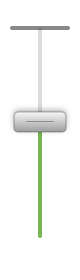
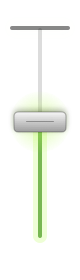
Add following glow and pull cursors

Changed region(s): [[0.275, 0.4571, 0.725, 0.8857], [0.3, 0.3429, 0.7, 0.4]]

diff --git a/Sources/Tendedero/HoverHintPanel.swift b/Sources/Tendedero/HoverHintPanel.swift
@@ -8,6 +8,51 @@ import SwiftUI
 /// It never takes a click and never becomes key: it is a sign, not a control.
 @MainActor
 final class HoverHintPanel: NSPanel {
+    /// A crisp two-times-resolution white arrow with a black edge: the
+    /// cursor shown while the pull cord is visible.
+    static let pullCursor: NSCursor = {
+        let points = NSSize(width: 20, height: 20)
+        guard let rep = NSBitmapImageRep(bitmapDataPlanes: nil, pixelsWide: 40, pixelsHigh: 40,
+                                         bitsPerSample: 8, samplesPerPixel: 4, hasAlpha: true,
+                                         isPlanar: false, colorSpaceName: .deviceRGB,
+                                         bytesPerRow: 0, bitsPerPixel: 0),
+              let context = NSGraphicsContext(bitmapImageRep: rep) else {
+            return .arrow
+        }
+        rep.size = points
+        NSGraphicsContext.saveGraphicsState()
+        NSGraphicsContext.current = context
+        let transform = NSAffineTransform()
+        transform.scale(by: 2)
+        transform.concat()
+
+        let arrow = NSBezierPath()
+        arrow.move(to: NSPoint(x: 10, y: 18))
+        arrow.line(to: NSPoint(x: 17, y: 11))
+        arrow.line(to: NSPoint(x: 13, y: 11))
+        arrow.line(to: NSPoint(x: 13, y: 4))
+        arrow.line(to: NSPoint(x: 7, y: 4))
+        arrow.line(to: NSPoint(x: 7, y: 11))
+        arrow.line(to: NSPoint(x: 3, y: 11))
+        arrow.close()
+
+        let shadow = NSShadow()
+        shadow.shadowColor = NSColor.black.withAlphaComponent(0.4)
+        shadow.shadowBlurRadius = 2
+        shadow.shadowOffset = NSSize(width: 0, height: -1)
+        shadow.set()
+        NSColor.white.setFill()
+        arrow.fill()
+        NSColor.black.withAlphaComponent(0.85).setStroke()
+        arrow.lineWidth = 1.2
+        arrow.stroke()
+
+        NSGraphicsContext.restoreGraphicsState()
+        let image = NSImage(size: points)
+        image.addRepresentation(rep)
+        return NSCursor(image: image, hotSpot: NSPoint(x: 10, y: 10))
+    }()
+
     private let hosting: NSHostingView<HoverHintView>
     private var lastProgress = -1.0
     private var isShown = false
@@ -90,26 +135,53 @@ private struct PullCord: View {
 
     private var warm: Bool { progress > 0.85 }
 
+    /// Follows the pointer's progress: teal at the bottom, orange at the top.
+    private var glowColor: Color {
+        Color(hue: 0.42 - 0.32 * progress, saturation: 0.8, brightness: 1)
+    }
+
+    private var glowAlpha: Double { 0.12 + 0.22 * progress }
+
     var body: some View {
         GeometryReader { geometry in
             let mid = geometry.size.width / 2
             let top: CGFloat = 14
             let bottom: CGFloat = 118
             let pegY = top + (bottom - top) * (1 - CGFloat(progress))
+            let fillPath = Path { path in
+                path.move(to: CGPoint(x: mid, y: bottom))
+                path.addLine(to: CGPoint(x: mid, y: pegY))
+            }
 
             ZStack {
+                // A soft light tail along the part of the rope the peg has
+                // already climbed.
+                fillPath
+                    .stroke(glowColor.opacity(glowAlpha),
+                            style: StrokeStyle(lineWidth: 7, lineCap: .round))
+                    .blur(radius: 4)
+
                 Capsule()
                     .fill(Color.primary.opacity(0.16))
                     .frame(width: 2, height: bottom - top)
                     .position(x: mid, y: (top + bottom) / 2)
                     .shadow(color: .black.opacity(0.12), radius: 1, y: 0.5)
 
-                Path { path in
-                    path.move(to: CGPoint(x: mid, y: bottom))
-                    path.addLine(to: CGPoint(x: mid, y: pegY))
-                }
-                .stroke(warm ? Color.orange : Color.accentColor,
-                        style: StrokeStyle(lineWidth: 2, lineCap: .round))
+                fillPath
+                    .stroke(warm ? Color.orange : Color.accentColor,
+                            style: StrokeStyle(lineWidth: 2, lineCap: .round))
+
+                // A halo that rides with the peg and changes color as the
+                // pointer climbs.
+                Circle()
+                    .fill(
+                        RadialGradient(colors: [glowColor.opacity(0.45), glowColor.opacity(0)],
+                                       center: .center, startRadius: 0, endRadius: 16)
+                    )
+                    .frame(width: CGFloat(26 + 8 * progress),
+                           height: CGFloat(26 + 8 * progress))
+                    .position(x: mid, y: pegY)
+                    .blur(radius: 2)
 
                 // The short line at the top is both the clothesline end and
                 // the wake threshold.
@@ -117,7 +189,8 @@ private struct PullCord: View {
                     .fill(warm ? Color.orange : Color.primary.opacity(0.55))
                     .frame(width: 30, height: 2)
                     .position(x: mid, y: top)
-                    .shadow(color: warm ? Color.orange.opacity(0.7) : .clear, radius: 3)
+                    .shadow(color: warm ? Color.orange.opacity(0.7) : glowColor.opacity(0.2),
+                            radius: 3)
 
                 ClothespinMarker(warm: warm)
                     .position(x: mid, y: pegY)

diff --git a/Sources/Tendedero/AppDelegate.swift b/Sources/Tendedero/AppDelegate.swift
@@ -42,6 +42,8 @@ final class AppDelegate: NSObject, NSApplicationDelegate, NSMenuDelegate {
     /// Whether the pointer has moved upward since the hint appeared. This is
     /// the gesture that wakes the line.
     private var topCenterMovedUp = false
+    /// Whether the custom pull-up cursor is on the cursor stack.
+    private var pullCursorPushed = false
     /// Last pointer height, so entering the zone from below counts as moving
     /// up even when it happens between two timer ticks.
     private var previousMouseY: CGFloat?
@@ -608,6 +610,10 @@ final class AppDelegate: NSObject, NSApplicationDelegate, NSMenuDelegate {
     }
 
     private func hideHint() {
+        if pullCursorPushed {
+            NSCursor.pop()
+            pullCursorPushed = false
+        }
         hintPanel?.hide()
     }
 

diff --git a/Sources/Tendedero/GrabArea.swift b/Sources/Tendedero/GrabArea.swift
@@ -112,6 +112,11 @@ final class GrabView: NSView, NSDraggingSource {
 
     override func acceptsFirstMouse(for event: NSEvent?) -> Bool { true }
 
+    /// The photos are clickable, so the software area gets a hand cursor.
+    override func resetCursorRects() {
+        addCursorRect(bounds, cursor: .pointingHand)
+    }
+
     /// The discard cross drawn in the top left corner of the card. It is
     /// handled here because this view sits on top of the SwiftUI card.
     static let crossHitSize: CGFloat = 26

diff --git a/README-DEV.md b/README-DEV.md
@@ -6,7 +6,7 @@
 
 ### 1. 顶部正中间触发，而不是整条菜单栏
 
-![顶部中间的极简拉绳提示](docs/images/dev-hint.png)
+![带跟随光晕的极简拉绳提示](docs/images/dev-hint.png)
 
 - 热区是屏幕顶部正中间的一块区域：宽约 320 pt，从屏幕最上沿向下约 144 pt。
 - 指针进入热区后只会出现一根**极简垂直拉绳**，不会立即放下晾衣架，也**不显示任何文字**。
@@ -14,6 +14,8 @@
 - 夹子随鼠标向上爬，绳子的彩色部分显示已经爬过的距离；顶部短横线就是唤醒阈值。
 - 阈值行程为 144 pt；接近阈值时绳子和夹子转为橙色并微微发亮。
 - 拉绳只有约 **40 × 140**，比上一版 64 × 220 小很多；全部矢量绘制，Retina 下清晰，不做动态放大，所以结束后不需要恢复任何缩放状态。
+- 夹子周围有一圈**跟随光晕**：色相随进度从青绿过渡到橙色，亮度和半径也逐渐增强；绳子已爬过的部分带一条柔和光尾。光晕跟着夹子走，不是固定装饰。
+- 进入顶部拉绳区域时，光标换成自定义的**上拉箭头**（2× Retina 位图）；鼠标移到照片上则变成**手形光标**。离开区域、唤醒、收绳或鼠标进入菜单栏其他位置时立刻恢复系统光标。
 - 空绳时不显示拉绳提示，避免没有内容可拉。
 - 只有提示出现后鼠标**继续向上移动**（哪怕一小段），并且到达**屏幕最上沿**，才唤醒晾衣架；随后提示消失、绳子落下。
 - 没有“等几秒自动展开”的逻辑。鼠标不继续上移，就不会展开。
